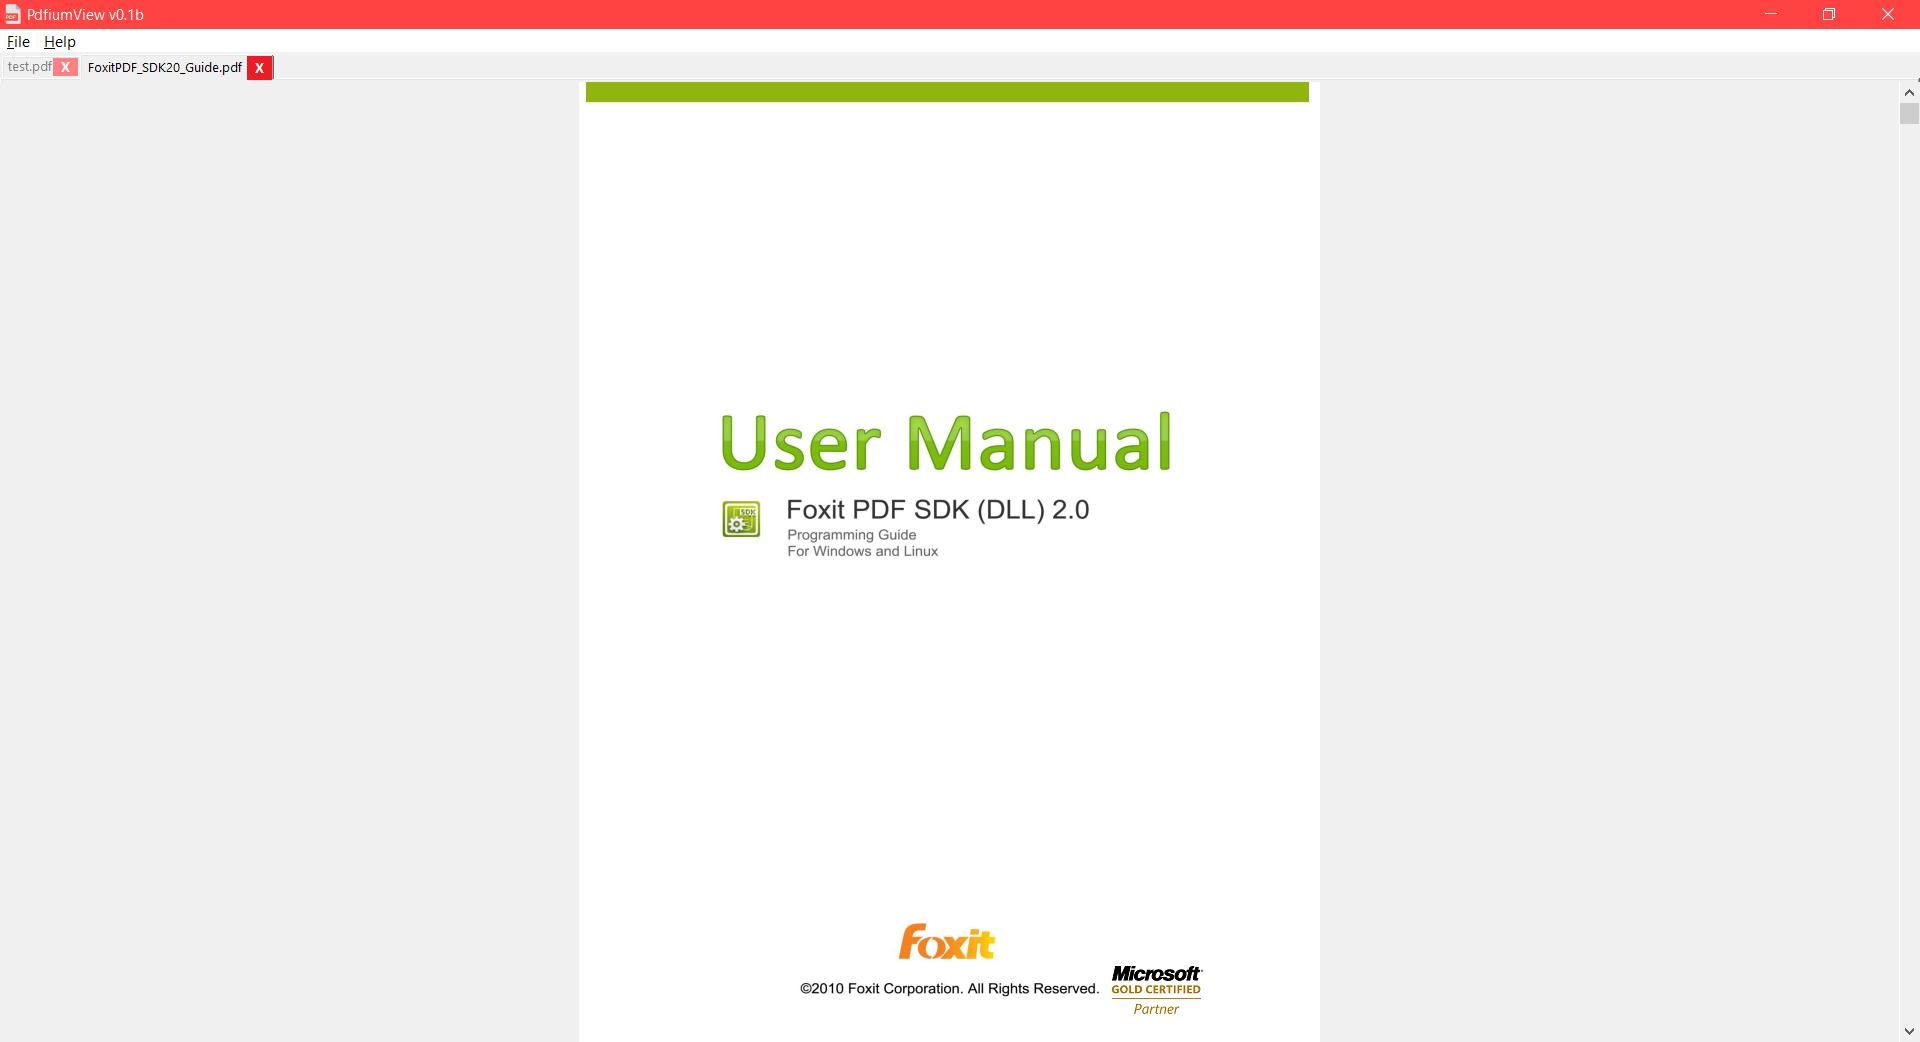
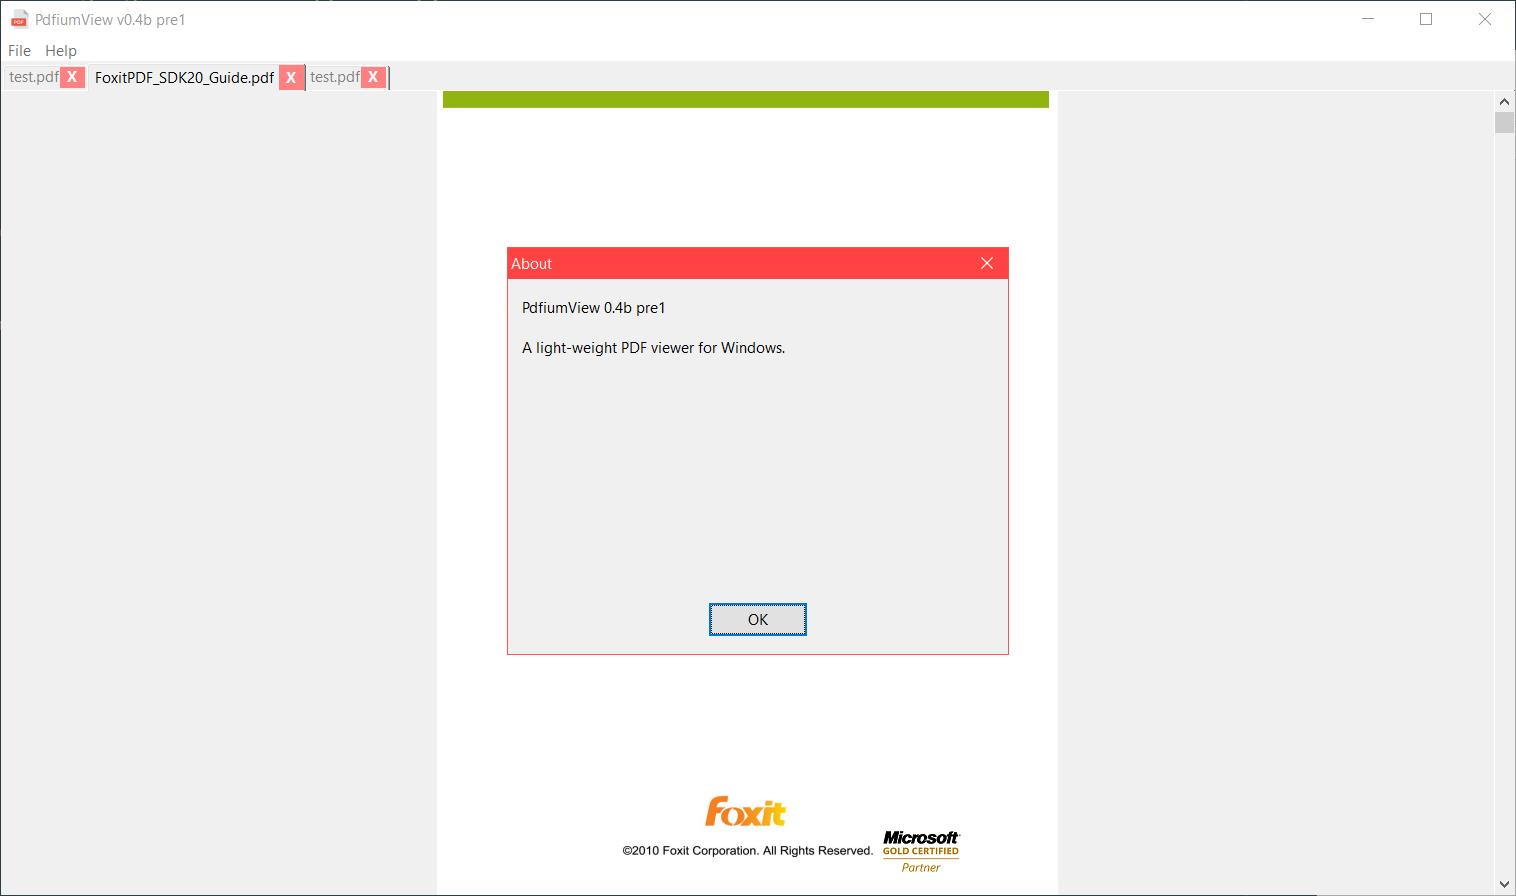
Add screenshots

diff --git a/src/common.hpp b/src/common.hpp
@@ -24,8 +24,8 @@
 #include "version.hpp"
 #include "resource.hpp"
 
-#define APP_DEFSIZE_X 640
-#define APP_DEFSIZE_Y 480
+#define APP_DEFSIZE_X 350
+#define APP_DEFSIZE_Y 200
 
 #if INTPTR_MAX == INT64_MAX
 #define PTRPRINT "0x%016X"

diff --git a/README.md b/README.md
@@ -15,13 +15,26 @@ The x86 (32-bit) Windows binaries can be downloaded [here](https://github.com/ma
 
 # Screenshots
 
+## PdfiumView with about dialog open
+
 ![Screen 1](https://github.com/makuke1234/PdfiumView/raw/master/images/screen1.PNG)
+
+## Highlighted tab close button
+
+![Highlighted button](https://github.com/makuke1234/PdfiumView/raw/master/images/screen2.PNG)
+
+## Pressed tab close button
+
+![Pressed button](https://github.com/makuke1234/PdfiumView/raw/master/images/screen3.PNG)
 
 
 # Changelog
 
 * 0.4.0 (planned)
 	* Make about dialog always centered
+		* *About dialog button is also centered*
+	* Make window size less restricted
+	* [ ] More refactoring of codebase
 	* [ ] Add zooming capability
 
 * 0.3.0
